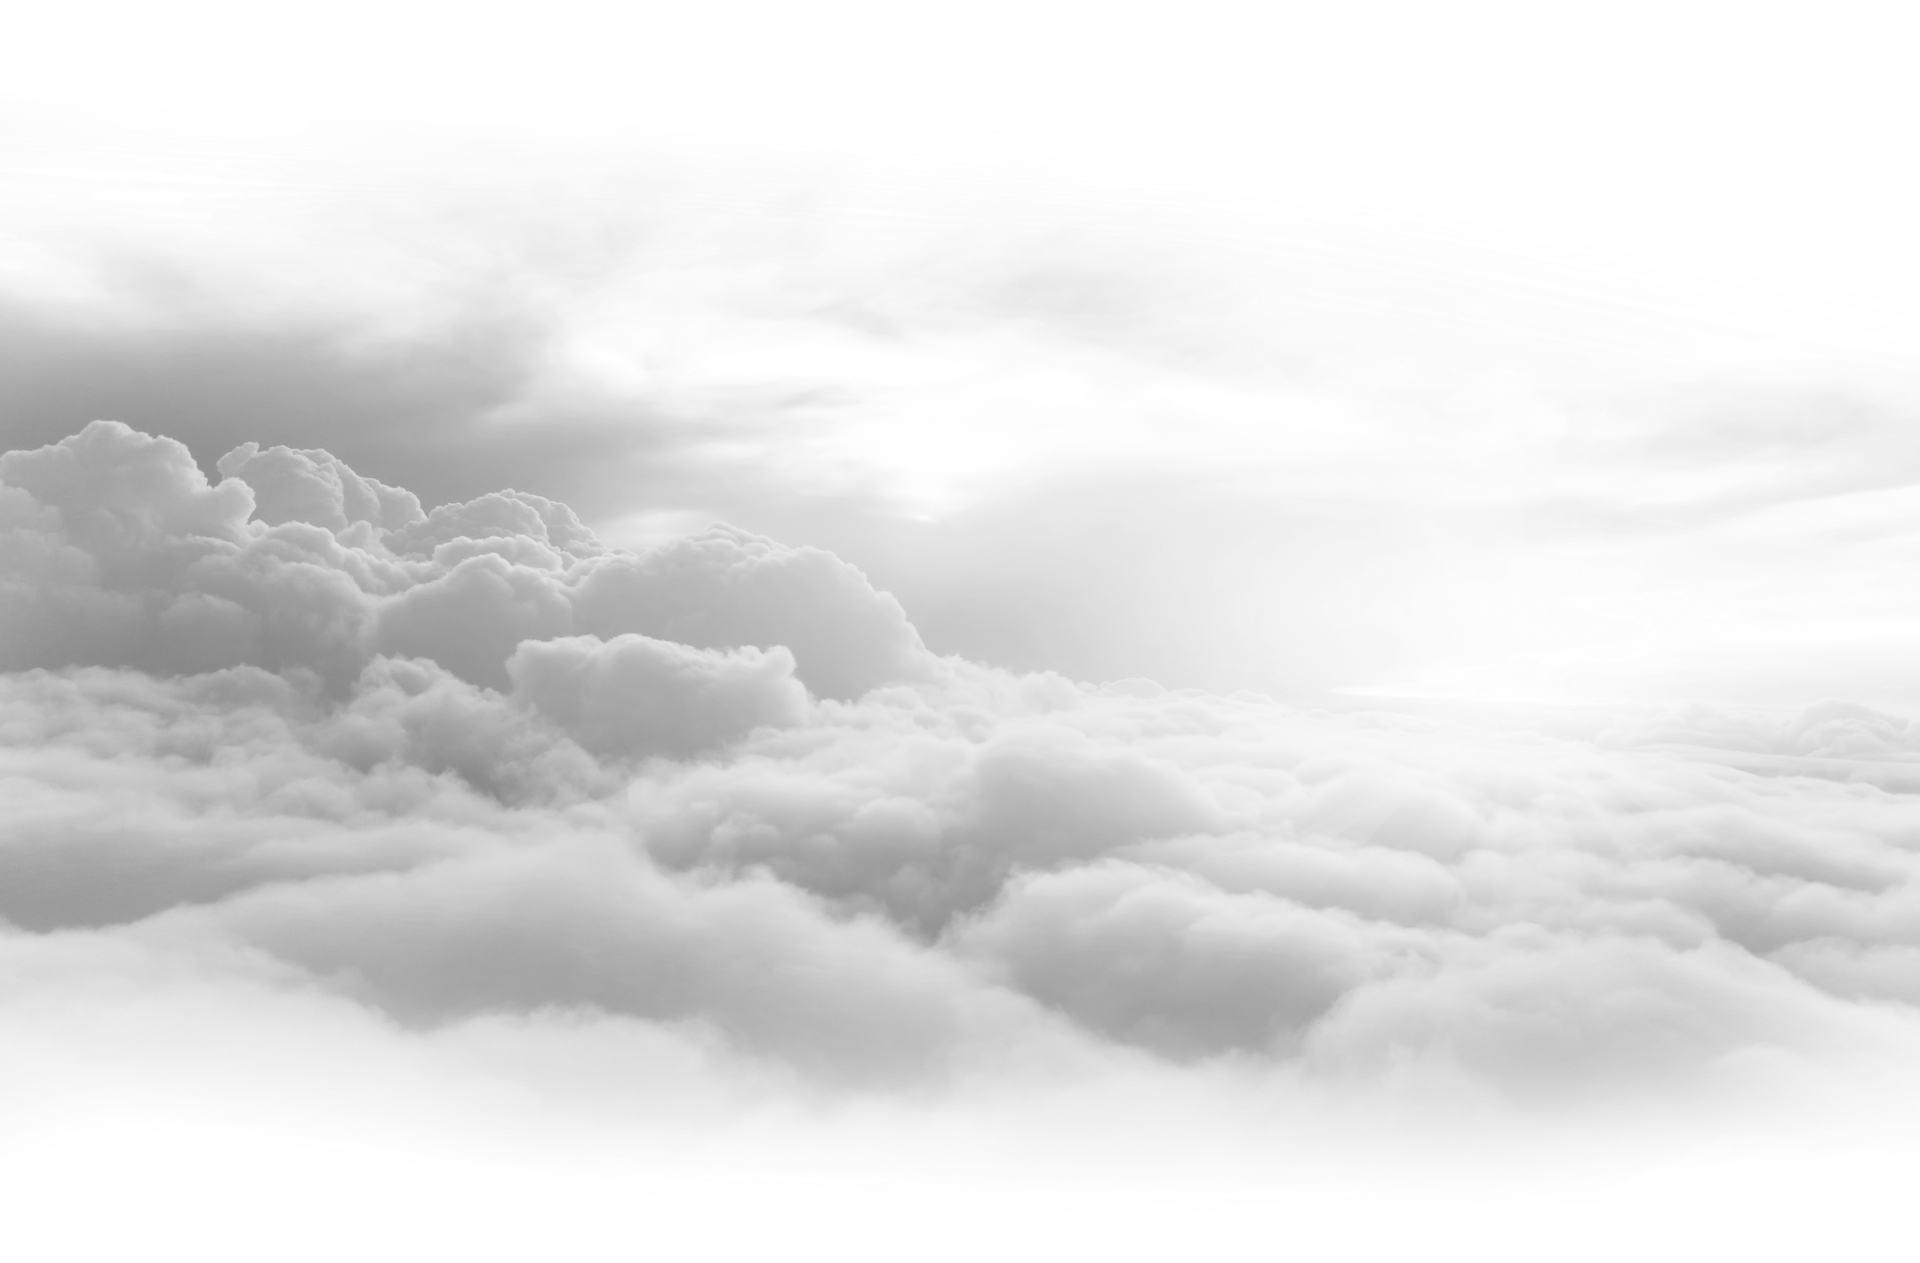
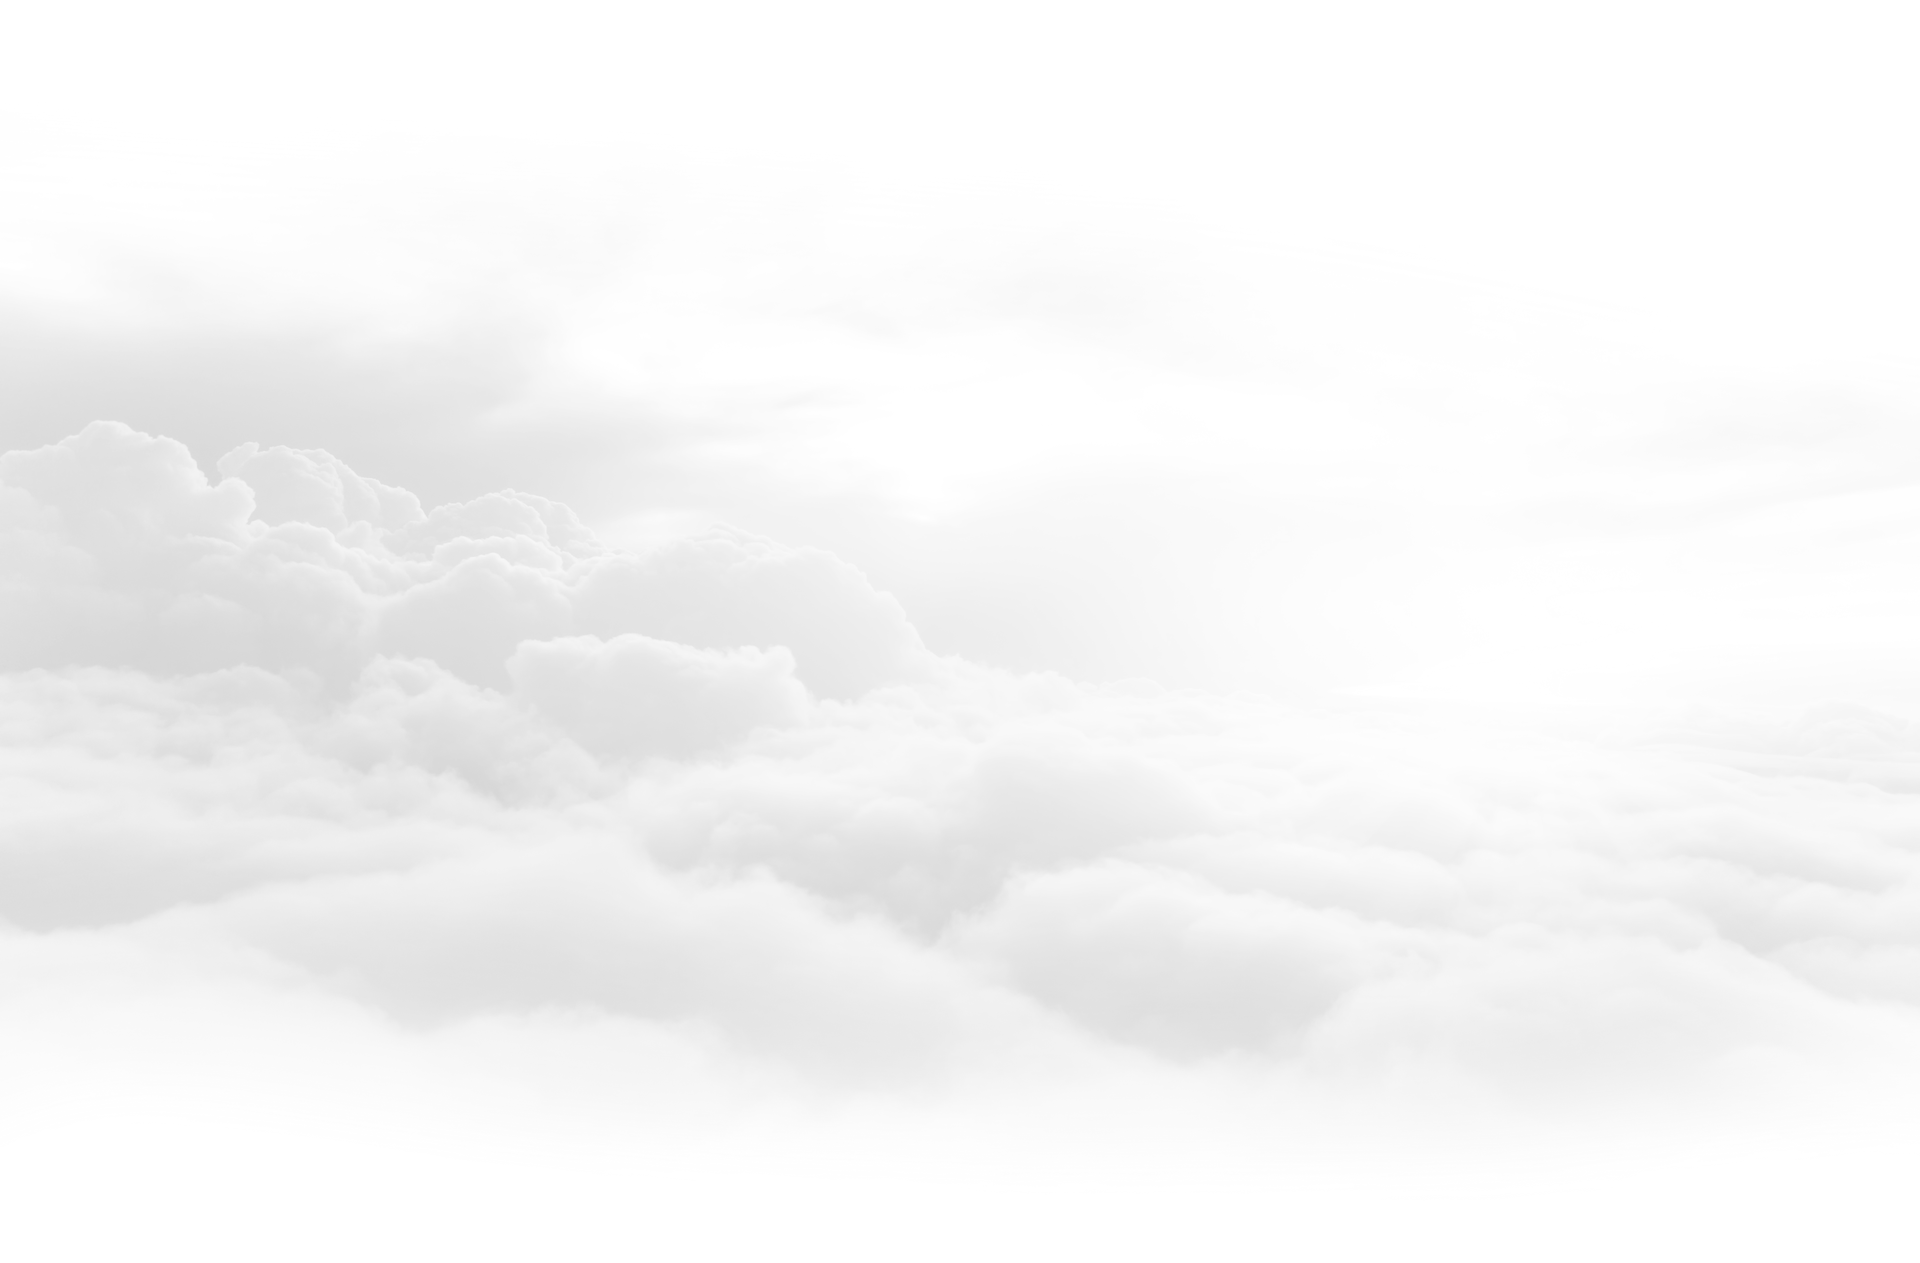
fix clouds animation

diff --git a/src/styles/common/global.scss b/src/styles/common/global.scss
@@ -18,44 +18,22 @@ body {
     position: relative;
     background-image: url("../img/bg_clouds.png");
     background-repeat: no-repeat;
-    background-size: 100% auto;
-    background-position: 0 0;
-    animation: zoom-out 20s ease-in-out infinite alternate;
+    background-size: auto 140vh;
+    background-position: 0 -280px;
+    animation: zoom-out-mobile 20s ease-in-out infinite alternate;
     overflow-x: hidden;
+
+    @media (min-width: $bp-laptop) {
+        background-position: 0 -200px;
+    }
 }
 
-@keyframes zoom-out {
+@keyframes zoom-out-mobile {
     from {
-        background-size: 100% auto;
+        background-size: auto 140vh;
     }
     to {
-        background-size: 130% auto;
-    }
-}
-
-body::after {
-    content: "";
-    position: absolute;
-    top: 0;
-    left: 0;
-    bottom: 0;
-    z-index: -1;
-    display: block;
-    width: 200vw;
-    background-image: url("../img/bg_clouds_small.png");
-    background-repeat: repeat-x;
-    background-size: 100vw auto;
-    background-position: 0 bottom;
-    mix-blend-mode: color-dodge;
-    animation: slide 30s ease-in-out infinite;
-}
-
-@keyframes slide {
-    from {
-        transform: translateX(0);
-    }
-    to {
-        transform: translateX(-50%);
+        background-size: auto 170vh;
     }
 }
 

diff --git a/src/styles/blocks/hero.scss b/src/styles/blocks/hero.scss
@@ -16,6 +16,13 @@
     }
 }
 
+.hero__container {
+    @media (min-width: $bp-laptop) {
+        max-width: none;
+        padding: 0 40px;
+    }
+}
+
 .hero__heading {
     display: flex;
     flex-direction: column;
@@ -87,13 +94,13 @@
     @media (min-width: $bp-tablet) {
         display: grid;
         grid-template-columns: 1fr 1fr;
-        grid-gap: 30px 20px;
+        gap: 30px 20px;
         width: 450px;
     }
 
     @media (min-width: 1400px) {
         grid-template-columns: auto auto auto;
-        grid-gap: 40px 80px;
+        gap: 40px 80px;
         margin: 80px 0 0 220px;
     }
 }
@@ -165,4 +172,26 @@
     @media (min-width: $bp-tablet) {
         margin-top: 40px;
     }
+}
+
+.hero__bg-wrap {
+    position: absolute;
+    top: 0;
+    left: 0;
+    z-index: -1;
+    display: flex;
+    align-items: flex-start;
+    height: 100vh;
+    mix-blend-mode: soft-light;
+    overflow-x: hidden;
+}
+
+.hero__bg {
+    width: 100vw;
+    height: 100vh;
+    background-image: url("../img/bg_clouds_small.png");
+    background-repeat: no-repeat;
+    background-size: contain;
+    background-position: center;
+    animation: slide 30s infinite linear;
 }

diff --git a/src/pages/blocks/hero.html b/src/pages/blocks/hero.html
@@ -1,5 +1,5 @@
 <section class="hero">
-    <div class="container">
+    <div class="container hero__container">
         <h1 class="hero__heading">
             World Affiliate<br> Program
             <small class="hero__subheading">
@@ -29,5 +29,8 @@
                 <button class="btn hero__become-partner">Стать партнёром</button>
             </li>
         </ul>
+    </div>
+    <div class="hero__bg-wrap">
+        <div class="hero__bg"></div>
     </div>
 </section>

diff --git a/src/styles/blocks/header.scss b/src/styles/blocks/header.scss
@@ -14,11 +14,16 @@
     position: relative;
     display: grid;
     grid-template-columns: 1fr auto auto;
-    grid-gap: 10px 15px;
+    gap: 10px 15px;
 
     @media (min-width: $bp-tablet) {
         grid-template-columns: 1fr auto auto auto;
         gap: 20px 15px;
+    }
+
+    @media (min-width: $bp-laptop) {
+        max-width: none;
+        padding: 0 40px;
     }
 }
 

diff --git a/src/js/main.js b/src/js/main.js
@@ -6,4 +6,14 @@
     const clone = tickerBody.cloneNode(true);
 
     ticker.append(clone)
-})()
+})();
+
+// hero clouds cloning
+
+(function() {
+    const cloudsWrap = document.querySelector('.hero__bg-wrap');
+    const clouds = document.querySelector('.hero__bg');
+    const clone = clouds.cloneNode(true);
+
+    cloudsWrap.append(clone)
+})();
